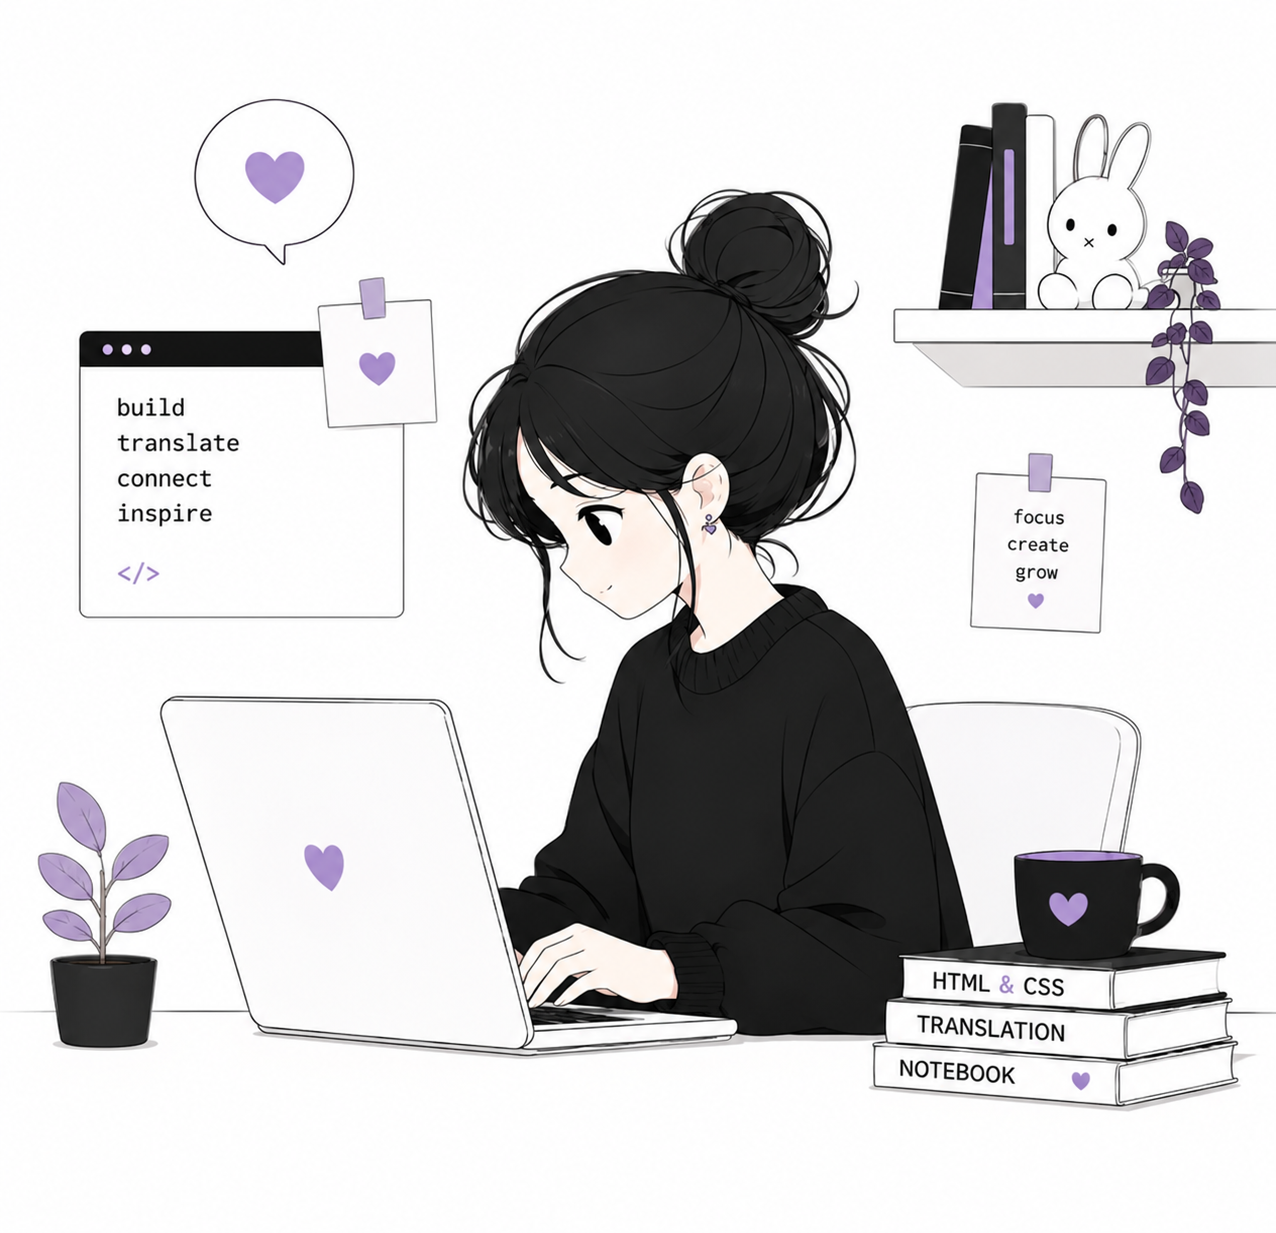
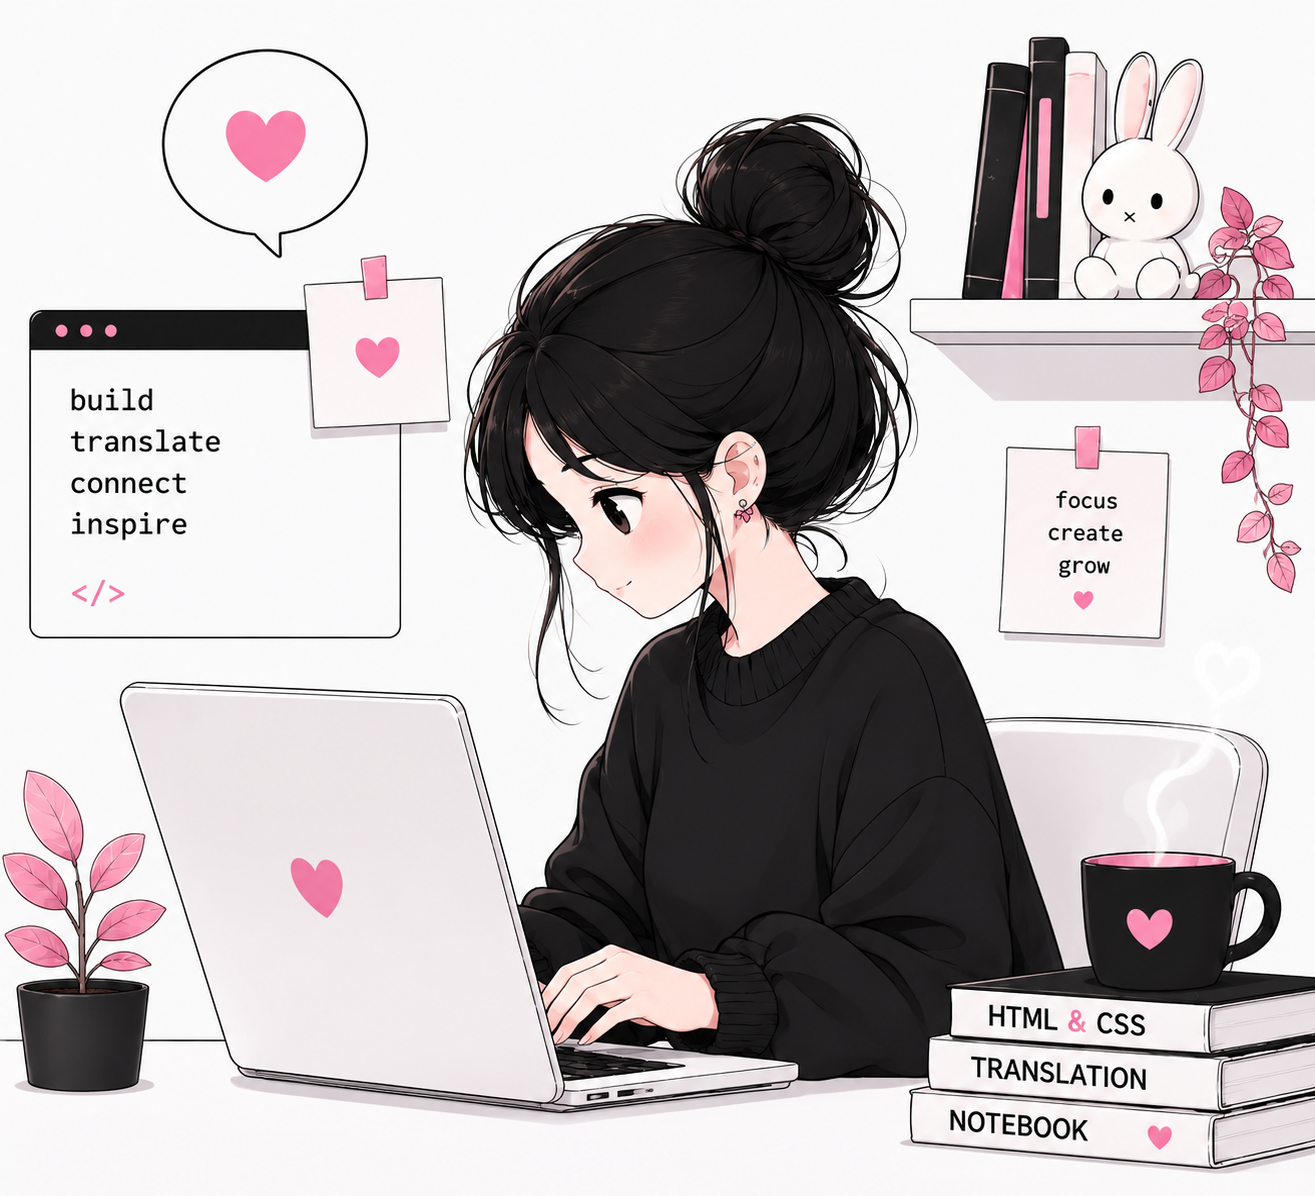
Add files via upload

diff --git a/stylesheet.css b/stylesheet.css
@@ -1,35 +1,44 @@
 /* =========================
    RESET & VARIABLES
 ========================= */
-:root {
-  --bg: #fafafa;
+:root { 
+  --bg: #fff9fc;
   --surface: #ffffff;
 
-  --text: #111827;
-  --muted: #6b7280;
+  --text: #241420;
+  --muted: #7d6c78;
 
-  --primary: #7c6ee6;
-  --primary-light: #ede9fe;
+  --primary: #ff6ab4;
+  --primary-hover: #db2777;
 
-  --border: #e5e7eb;
+  --primary-light: #fde7f3;
+
+  --primary2: linear-gradient(
+    135deg,
+    #ff7ac6 0%,
+    #ec4899 100%
+  );
+
+  --border: #f1dce9;
+
+  --shadow:
+    0 4px 12px rgba(236,72,153,.06),
+    0 12px 28px rgba(0,0,0,.05);
+
+  --shadow-hover:
+    0 12px 24px rgba(236,72,153,.12),
+    0 20px 40px rgba(0,0,0,.08);
 
   --container: 1200px;
-
   --radius: 24px;
   --radius-sm: 14px;
   --pill: 999px;
 
-  --shadow:
-    0 4px 10px rgba(0,0,0,.03),
-    0 12px 24px rgba(0,0,0,.05);
-
-  --shadow-hover:
-    0 10px 20px rgba(0,0,0,.05),
-    0 20px 40px rgba(0,0,0,.08);
-
-  --transition: .25s ease;
+  --transition:.25s ease;
 }
-
+.primary{
+  color: var(--primary);
+}
 *,
 *::before,
 *::after {
@@ -87,7 +96,7 @@ a {
 ========================= */
 
 header {
-  position: sticky;
+  position: relative;
   top: 30px;
   z-index: 1000;
 
@@ -122,13 +131,13 @@ header {
   color: var(--muted);
 
   border-radius: var(--pill);
-
   transition: all .25s ease;
 }
 
 .navbar a:hover {
   background: var(--primary-light);
   color: var(--primary);
+  padding: -50px -50px;
 }
 
 /* =========================
@@ -445,6 +454,26 @@ box-shadow:
 @media (max-width: 600px) {
   .buttons {
     flex-direction: column;
+    
+  }
+
+  .navbar {
+    width: 100%;
+    overflow-x: auto;
+    justify-content: flex-start;
+    scrollbar-width: none;
+    justify-content: center;
+    align-items: center;
+    display: flex;
+  }
+
+  .navbar::-webkit-scrollbar {
+    display: none;
+  }
+
+  .navbar a {
+    white-space: nowrap;
+    flex-shrink: 0;
   }
 
   .project-grid,
@@ -453,11 +482,8 @@ box-shadow:
   }
 }
 .highlight {
-  background: linear-gradient(
-    90deg,
-    #7c6ee6,
-    #9d8cff
-  );
+background: var(--primary2);
+
 
   -webkit-background-clip: text;
   color: transparent;

diff --git a/javascript.js b/javascript.js
@@ -47,6 +47,8 @@ en: {
     tran2:'Translation between English,Portuguese, and Spanish.',
     lol:'Website Localization',
     lol2:'Helping websites feel natural across multiple languages.',
+    hirebtn:"hire me",
+    projectsbtn:'Views projects'
 
  },
 pt: {
@@ -88,7 +90,9 @@ pt: {
     tran2: 'Tradução entre inglês, português e espanhol.',
 
     lol: 'Localização de Websites',
-    lol2: 'Ajudando sites a parecerem naturais em vários idiomas.'
+    lol2: 'Ajudando sites a parecerem naturais em vários idiomas.',
+    hirebtn:"me contrate",
+    projectsbtn:'Ver projetos'
 },
 es: {
     title: "Hola, soy <span class='highlight';'> Carla <br> Cueto</span>",
@@ -130,7 +134,9 @@ es: {
     tran2: 'Traducción entre inglés, portugués y español.',
 
     lol: 'Localización de Sitios Web',
-    lol2: 'Ayudando a que los sitios web se sientan naturales en múltiples idiomas.'
+    lol2: 'Ayudando a que los sitios web se sientan naturales en múltiples idiomas.',
+    hirebtn:"contrátame",
+    projectsbtn:'Ver proyectos'
 }
 
 };
@@ -168,6 +174,11 @@ function changeLanguage(language) {
 
     document.getElementById("web1").textContent =
         translations[language].web1;
+
+    
+    document.getElementById("projectsbtn").textContent =
+        translations[language].projectsbtn;
+
     document.getElementById('lol').textContent=
         translations[language].lol;
     document.getElementById('lol2').textContent=
@@ -205,6 +216,9 @@ function changeLanguage(language) {
 
     document.getElementById("contact-title").textContent =
         translations[language].contactTitle;
+        
+    document.getElementById("hirebtn").textContent =
+        translations[language].hirebtn;
 
     document.getElementById("contact-text").textContent =
         translations[language].contactText;

diff --git a/index.html b/index.html
@@ -144,7 +144,7 @@
                     <a
                         href="#contact-section"
                         class="btn dark"
-                        id="hire-btn"
+                        id="hirebtn"
                     >
                         Hire Me
                     </a>
@@ -152,7 +152,7 @@
                     <a
                         href="#projects-section"
                         class="btn light"
-                        id="projects-btn"
+                        id="projectsbtn"
                     >
                         View Projects
                     </a>
@@ -203,7 +203,7 @@
     <div class="section-heading">
         <span class="section-tag" id="about-tag"></span>
 
-        <h3 id="quote">
+        <h3 id="quote" class="primary">
             Creating modern digital experiences.
         </h3>
     </div>
@@ -229,7 +229,7 @@
 
         <span class="section-tag" id="projects-tag"></span>
 
-        <h3 id="work">
+        <h3 id="work" class="primary">
             Selected Work
         </h3>
 
@@ -296,7 +296,7 @@
 
         <span class="section-tag" id="services-tag"></span>
 
-        <h3 id="services-title">
+        <h3 id="services-title" class="primary">
             What I Offer
         </h3>
 
